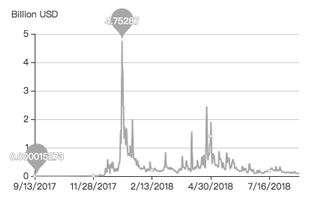
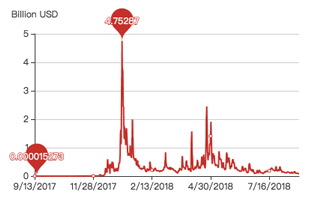
Set representPieChart

Changed region(s): [[0.029, 0.03, 0.9581, 0.9]]

diff --git a/src/components/common/chart.config.js b/src/components/common/chart.config.js
@@ -51,12 +51,12 @@ module.exports = {
   },
   representPieChart: {
         color: [
-            '#99c9ed',
-            '#1e3a61',
-            '#25478f',
-            '#4A84D4',
-            '#315BC6',
-            '#3E7AD4'
+            '#c84a45',
+            '#e7afad',
+            '#e19b98',
+            '#da8683',
+            '#d4726e',
+            '#ce5e5a'
         ],
         title: {
             text: '',

diff --git a/src/styles/main.scss b/src/styles/main.scss
@@ -998,7 +998,7 @@ th {
 
 }
 .card-chart .card-title{
-  color: #C06161;
+  color: #666666;
   font-size: 1rem;
   display: flex;
   flex-direction: column;
